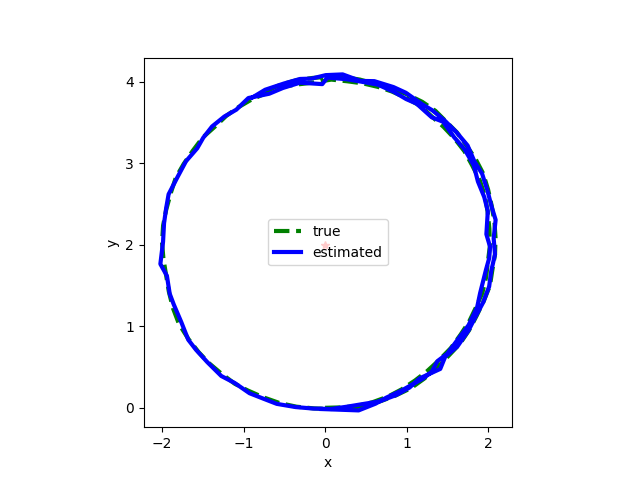
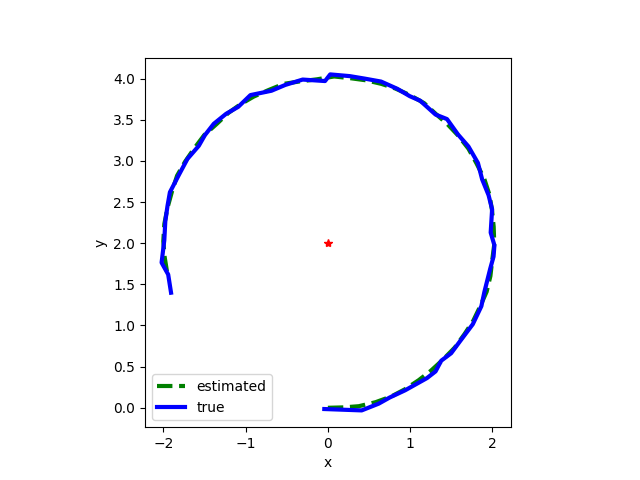
update q2 and 3

diff --git a/HW9/uni_ekf_test.py b/HW9/uni_ekf_test.py
@@ -27,10 +27,10 @@ class Problem:
         self.bearing_only = 1
 
         # single beacon at (-2,2) : system is unobservable
-        # self.pbs = np.arrasy([[-2], [2]])    # beacon positions
+        self.pbs = np.array([[0], [2]])    # beacon positions
 
         # two beacons at (-2,2) and (2,2) : system is observable (two or more)
-        self.pbs = np.array([[-2, 2], [2, 2]])    # beacon positions
+        # self.pbs = np.array([[-2, 2], [2, 2]])    # beacon positions
 
         self.nb = self.pbs.shape[1]  # number of beacons
 
@@ -38,12 +38,12 @@ class Problem:
             self.h = self.b_h         # bearing sensing
             self.r = self.nb          # measurement dimension
             self.R = .4 * np.diag(np.ones(self.nb) * 0.1)
-            # self.R = .01 * np.diag([0.5, 1.0])
+            # self.R = .01 * np.diag(np.ones(self.nb) * 0.5)
         else:
             self.h = self.br_h        # bearing-reange sensing
             self.r = 2 * self.nb      # measurement dimension
-            self.R = .4 * np.diag(np.tile(np.array([.1, .01]), self.nb))
-            # self.R = .01 * np.diag([0.5])
+            # self.R = .4 * np.diag(np.tile(np.array([.1, .01]), self.nb))
+            self.R = .01 * np.diag(np.tile(np.array([0.5, 1.0]), self.nb))
 
         self.n = 4            # state dimension
         self.f = self.uni_f   # mobile-robot dynamics
@@ -51,14 +51,14 @@ class Problem:
         # timing
         dt = .1
         # N = 2580
-        self.N = 100
+        self.N = 50
         self.T = dt * self.N
         self.dt = dt
 
         # noise models
         # self.Q = .3 * dt * np.diag([.1, .1, .01])
         self.Q = .1 * dt * dt * np.diag([.1, .1, .1, .001])
-        self.R = .01 * np.diag([0.5, 1.0])
+        # self.R = .01 * np.diag([0.5, 1.0])
 
     def b_h(self, x):
 

diff --git a/HW9/shape_fit.py b/HW9/shape_fit.py
@@ -8,15 +8,15 @@ from matplotlib import cm
 
 def shape_basis(p, q):
 
-  f = np.transpose(np.concatenate(
-    (np.array([p**2, q**2, p * q, p, q]), np.ones((1, np.size(p))))))
+    f = np.transpose(np.concatenate(
+        (np.array([p**2, q**2, p * q, p, q]), np.ones((1, np.size(p))))))
 
-  return f
+    return f
 
 
 def shape(p, q, x):
-  z = shape_basis(p, q) @ x
-  return z
+    z = shape_basis(p, q) @ x
+    return z
 
 
 # workspace is the square [s, s]x[-s, s]
@@ -32,8 +32,8 @@ s2 = np.arange(-s, s, 0.1)
 S1, S2 = np.meshgrid(s1, s2)
 gt = np.zeros((S1.shape[0], S1.shape[1]))
 for i in range(S1.shape[0]):
-  for j in range(S1.shape[1]):
-    gt[i, j] = shape(np.array([S1[i, j]]), np.array([S2[i, j]]), x_true)
+    for j in range(S1.shape[1]):
+        gt[i, j] = shape(np.array([S1[i, j]]), np.array([S2[i, j]]), x_true)
 fig = plt.figure()
 ax = fig.add_subplot(111, projection='3d')
 surface = ax.plot_surface(S1, S2, gt, cmap=cm.jet, linewidth=0,
@@ -59,8 +59,8 @@ x = np.linalg.inv(np.transpose(H) @ np.linalg.inv(R) @
 # plot estimated
 ge = np.zeros((S1.shape[0], S1.shape[1]))
 for i in range(S1.shape[0]):
-  for j in range(S1.shape[1]):
-    ge[i, j] = shape(np.array([S1[i, j]]), np.array([S2[i, j]]), x)
+    for j in range(S1.shape[1]):
+        ge[i, j] = shape(np.array([S1[i, j]]), np.array([S2[i, j]]), x)
 surface = ax.plot_surface(S1, S2, ge, cmap=cm.jet, linewidth=0,
                           antialiased=False, alpha=0.8)
 

diff --git a/HW9/hw9_q2.py b/HW9/hw9_q2.py
@@ -79,7 +79,6 @@ for k in range(prob.N):
     xts[:, k + 1] = xts[:, k] + np.concatenate((np.array([thetadot * prob.dt]),
                                                 np.sqrt(prob.qu) * np.random.randn(1)))
 
-
     # generate u based on true state
     u = thetadot + xts[1, k + 1] + np.sqrt(prob.qv) * np.random.randn(1)
 
@@ -93,7 +92,7 @@ for k in range(prob.N):
     # record result
     xs[:, k + 1] = x
     Ps[:, :, k + 1] = P
-    zs[:, k] = z + 1
+    zs[:, k] = z
     nm[k + 1] = np.linalg.norm(P)
 
 plt.figure()

diff --git a/HW9/hw9_q3.py b/HW9/hw9_q3.py
@@ -35,7 +35,7 @@ class Problem:
 
         # timing
         dt = .1
-        self.N = 100
+        self.N = 50
         self.T = dt * self.N
         self.dt = dt
 
